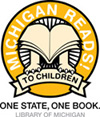
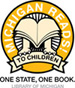
ipad hover fix, misc
- fixed drop down menu for ipad
- switched shape & teacher thumbnails, eek & grandma
- remove favicon
- MI reads pic smaller

diff --git a/css/style.css b/css/style.css
@@ -715,9 +715,9 @@ blockquote.standtall {
 	height:60px;
 }
 
-.b1 {left:145px; width:63px; background:url('../img/books_navhover.png') -5px -5px no-repeat;}
-.b2 {left:213px; width:50px; background:url('../img/books_navhover.png') -73px -5px no-repeat;}
-.b3 {left:268px; width:58px; background:url('../img/books_navhover.png') -128px -5px no-repeat;}
+.b1 {left:145px; width:58px; background:url('../img/books_navhover.png') -5px -5px no-repeat;}
+.b2 {left:208px; width:50px; background:url('../img/books_navhover.png') -68px -5px no-repeat;}
+.b3 {left:263px; width:63px; background:url('../img/books_navhover.png') -123px -5px no-repeat;}
 .b4 {left:331px; width:46px; background:url('../img/books_navhover.png') -191px -5px no-repeat;}
 .b5 {left:382px; width:46px; background:url('../img/books_navhover.png') -242px -5px no-repeat;}
 .b6 {left:433px; width:49px; background:url('../img/books_navhover.png') -293px -5px no-repeat;}
@@ -727,8 +727,8 @@ blockquote.standtall {
 .b10 {left:657px; width:57px; background:url('../img/books_navhover.png') -517px -5px no-repeat;}
 .b11 {left:719px; width:46px; background:url('../img/books_navhover.png') -579px -5px no-repeat;}
 .b12 {left:770px; width:45px; background:url('../img/books_navhover.png') -630px -5px no-repeat;}
-.b13 {left:145px; width:61px; background:url('../img/books_navhover.png') -5px -70px no-repeat;}
-.b14 {left:211px; width:76px; background:url('../img/books_navhover.png') -71px -70px no-repeat;}
+.b13 {left:145px; width:76px; background:url('../img/books_navhover.png') -5px -70px no-repeat;}
+.b14 {left:226px; width:61px; background:url('../img/books_navhover.png') -86px -70px no-repeat;}
 .b15 {left:292px; width:59px; background:url('../img/books_navhover.png') -152px -70px no-repeat;}
 .b16 {left:356px; width:47px; background:url('../img/books_navhover.png') -216px -70px no-repeat;}
 .b17 {left:408px; width:76px; background:url('../img/books_navhover.png') -268px -70px no-repeat;}
@@ -737,9 +737,9 @@ blockquote.standtall {
 .b20 {left:610px; width:65px; background:url('../img/books_navhover.png') -470px -70px no-repeat;}
 .b21 {left:680px; width:65px; background:url('../img/books_navhover.png') -540px -70px no-repeat;}
 .b22 {left:750px; width:65px; background:url('../img/books_navhover.png') -610px -70px no-repeat;}
-.b1 a:hover {left:145px; width:63px; background:url('../img/books_navhover.png') -5px -135px no-repeat;}
-.b2 a:hover {left:213px; width:50px; background:url('../img/books_navhover.png') -73px -135px no-repeat;}
-.b3 a:hover {left:268px; width:58px; background:url('../img/books_navhover.png') -128px -135px no-repeat;}
+.b1 a:hover {left:145px; width:58px; background:url('../img/books_navhover.png') -5px -135px no-repeat;}
+.b2 a:hover {left:208px; width:50px; background:url('../img/books_navhover.png') -68px -135px no-repeat;}
+.b3 a:hover {left:263px; width:63px; background:url('../img/books_navhover.png') -123px -135px no-repeat;}
 .b4 a:hover {left:331px; width:46px; background:url('../img/books_navhover.png') -191px -135px no-repeat;}
 .b5 a:hover {left:382px; width:46px; background:url('../img/books_navhover.png') -242px -135px no-repeat;}
 .b6 a:hover {left:433px; width:49px; background:url('../img/books_navhover.png') -293px -135px no-repeat;}
@@ -749,8 +749,8 @@ blockquote.standtall {
 .b10 a:hover {left:657px; width:57px; background:url('../img/books_navhover.png') -517px -135px no-repeat;}
 .b11 a:hover {left:719px; width:46px; background:url('../img/books_navhover.png') -579px -135px no-repeat;}
 .b12 a:hover {left:770px; width:45px; background:url('../img/books_navhover.png') -630px -135px no-repeat;}
-.b13 a:hover {left:145px; width:61px; background:url('../img/books_navhover.png') -5px -200px no-repeat;}
-.b14 a:hover {left:211px; width:76px; background:url('../img/books_navhover.png') -71px -200px no-repeat;}
+.b13 a:hover {left:145px; width:76px; background:url('../img/books_navhover.png') -5px -200px no-repeat;}
+.b14 a:hover {left:226px; width:61px; background:url('../img/books_navhover.png') -86px -200px no-repeat;}
 .b15 a:hover {left:292px; width:59px; background:url('../img/books_navhover.png') -152px -200px no-repeat;}
 .b16 a:hover {left:356px; width:47px; background:url('../img/books_navhover.png') -216px -200px no-repeat;}
 .b17 a:hover {left:408px; width:76px; background:url('../img/books_navhover.png') -268px -200px no-repeat;}

diff --git a/_layouts/default.html b/_layouts/default.html
@@ -32,32 +32,32 @@
     <div id="rgg_header"><a href="{{base}}/">Rhonda Gowler Greene</a></div>
     <div id="sub_header"><a href="{{base}}/">children's book author & speaker</a></div>
   	<ul id="nav">
-      {% if page.category == "books" %} <li class="books_tab"><a href="{{base}}/books/shape">books</a>
+      {% if page.category == "books" %} <li class="books_tab"><a href="{{base}}/books/teacher" onClick="return true">books</a>
       			<ul class="books">
-                	<li class="submenu"><a href="{{base}}/books/shape">books</a></li>
+                	<li class="submenu"><a href="{{base}}/books/teacher">books</a></li>
                     <li class="submenu"><a href="{{base}}/forthcoming/pirates">forthcoming titles</a></li>
                 </ul>
       		</li> 
-            {% elsif page.category == "forthcoming" %} <li class="books_tab"><a href="{{base}}/books/shape">books</a>
+            {% elsif page.category == "forthcoming" %} <li class="books_tab"><a href="{{base}}/books/teacher" onClick="return true">books</a>
       			<ul class="books">
-                	<li class="submenu"><a href="{{base}}/books/shape">books</a></li>
+                	<li class="submenu"><a href="{{base}}/books/teacher">books</a></li>
                     <li class="submenu"><a href="{{base}}/forthcoming/pirates">forthcoming titles</a></li>
                 </ul>
       		</li>
-      		{% else %} <li class="books"><a href="{{base}}/books/shape">books</a>
+      		{% else %} <li class="books"><a href="{{base}}/books/teacher" onClick="return true">books</a>
             	<ul class="books">
-                	<li class="submenu"><a href="{{base}}/books/shape">books</a></li>
+                	<li class="submenu"><a href="{{base}}/books/teacher">books</a></li>
                     <li class="submenu"><a href="{{base}}/forthcoming/pirates">forthcoming titles</a></li>
                 </ul>
             </li> {% endif %}
       {% if page.category == "bio" %} <li class="bio_tab"><a href="{{base}}/bio/bio">bio</a></li> {% else %} <li class="bio"><a href="{{base}}/bio/bio">bio</a></li> {% endif %}
-      {% if page.category == "visits" %} <li class="visits_tab"><a href="{{base}}/visits/school">visits</a>
+      {% if page.category == "visits" %} <li class="visits_tab"><a href="{{base}}/visits/school" onClick="return true">visits</a>
       			<ul class="visits">
                 	<li class="submenu"><a href="{{base}}/visits/school">school visits</a></li>
                     <li class="submenu"><a href="{{base}}/visits/other">other presentations</a></li>
                 </ul>
       		</li>
-      		{% else %} <li class="visits"><a href="{{base}}/visits/school">visits</a>
+      		{% else %} <li class="visits"><a href="{{base}}/visits/school" onClick="return true">visits</a>
       			<ul class="visits">
                 	<li class="submenu"><a href="{{base}}/visits/school">school visits</a></li>
                     <li class="submenu"><a href="{{base}}/visits/other">other presentations</a></li>

diff --git a/_layouts/books.html b/_layouts/books.html
@@ -3,9 +3,9 @@ layout: default
 ---
 {% assign base = site.baseurl %}
 <ul class="books_nav">
-  <li class="b1"><a href="{{base}}/books/shape"></a></li>
+  <li class="b1"><a href="{{base}}/books/teacher"></a></li>
   <li class="b2"><a href="{{base}}/books/thanksgiving"></a></li>
-  <li class="b3"><a href="{{base}}/books/teacher"></a></li>
+  <li class="b3"><a href="{{base}}/books/shape"></a></li>
   <li class="b4"><a href="{{base}}/books/santa"></a></li>
   <li class="b5"><a href="{{base}}/books/barnyard"></a></li>
   <li class="b6"><a href="{{base}}/books/stable"></a></li>
@@ -17,8 +17,8 @@ layout: default
   <li class="b12"><a href="{{base}}/books/standtall"></a></li>
 </ul>
 <ul class="books_nav2">
-  <li class="b13"><a href="{{base}}/books/grandma"></a></li>
-  <li class="b14"><a href="{{base}}/books/eek"></a></li>
+  <li class="b13"><a href="{{base}}/books/eek"></a></li>
+  <li class="b14"><a href="{{base}}/books/grandma"></a></li>
   <li class="b15"><a href="{{base}}/books/doppet"></a></li>
   <li class="b16"><a href="{{base}}/books/monkeys"></a></li>
   <li class="b17"><a href="{{base}}/books/jamboree"></a></li>

diff --git a/_posts/books/0001-01-01-barnyard.md b/_posts/books/0001-01-01-barnyard.md
@@ -31,7 +31,7 @@ American Booksellers Association "Pick of the List" 1997
 <br /><br />
 Michigan Reads, One State, One Children's Book Award 2004 <a href="http://www.michigan.gov/libraryofmichigan/0,2351,7-160-34169_26038_31186---,00.html" target="_blank">award page with book-related activities</a>
 <br /><br />
-<div id="mi_reads"><img src="{{site.baseurl}}/img/mi_reads.jpg" width="100" height="117" alt="Michigan Reads" /></div>
+<div id="mi_reads"><img src="{{site.baseurl}}/img/mi_reads.jpg" width="75" height="88" alt="Michigan Reads" /></div>
 Children's Book Council Showcase Book
 <br /><br />
 Society of Illustrators Original Art Show (New York City)
